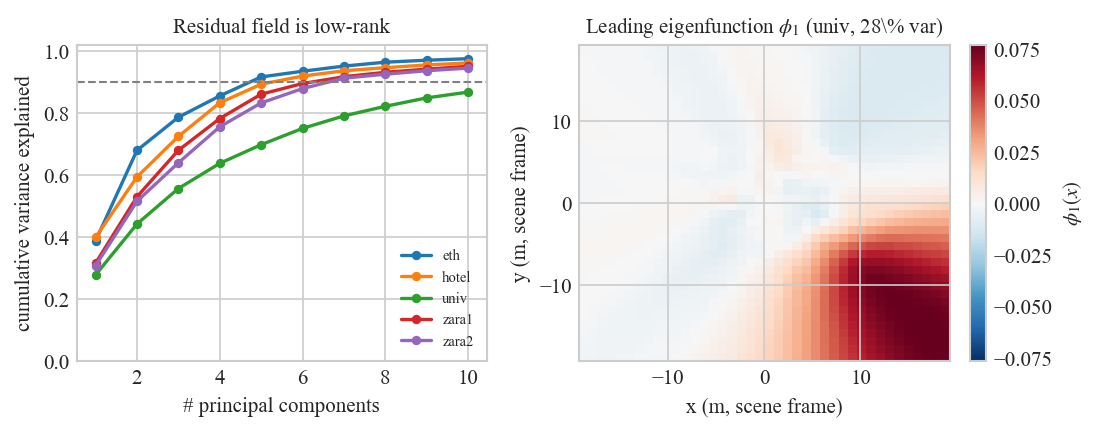
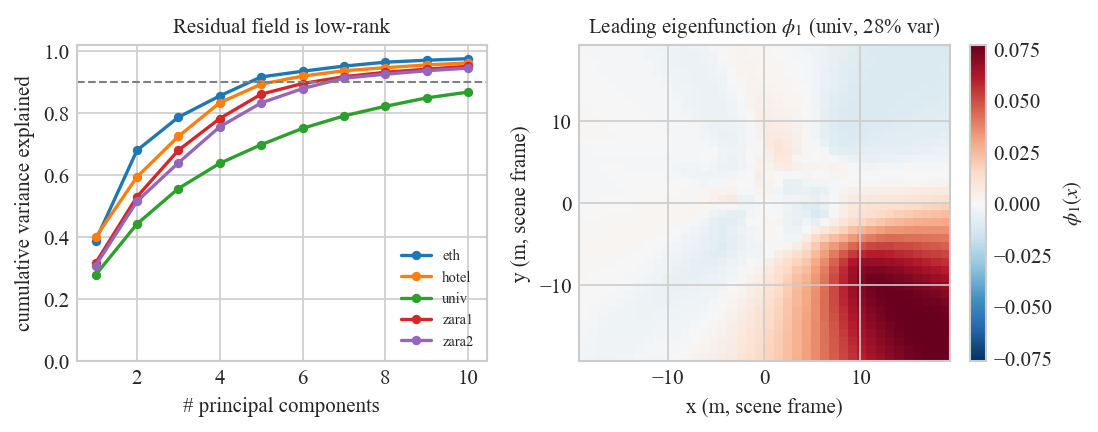
L3 figure: fix literal backslash in title (\%% -> %%); regenerate (content unchanged, FPCA is envelope-independent)

Changed region(s): [[0.5264, 0.0301, 0.867, 0.0903]]

diff --git a/make_fig_fpca_lowrank.py b/make_fig_fpca_lowrank.py
@@ -157,7 +157,7 @@ def main():
                          vmin=-vmax, vmax=vmax, aspect="auto")
         fig.colorbar(im, ax=ax_p, fraction=0.046, label=r"$\phi_1(x)$")
         ax_p.set_title(rf"Leading eigenfunction $\phi_1$ ({args.phi_dataset}, "
-                       rf"{cumvar[0]*100:.0f}\% var)", fontsize=10)
+                       rf"{cumvar[0]*100:.0f}% var)", fontsize=10)
         ax_p.set_xlabel("x (m, scene frame)")
         ax_p.set_ylabel("y (m, scene frame)")
 